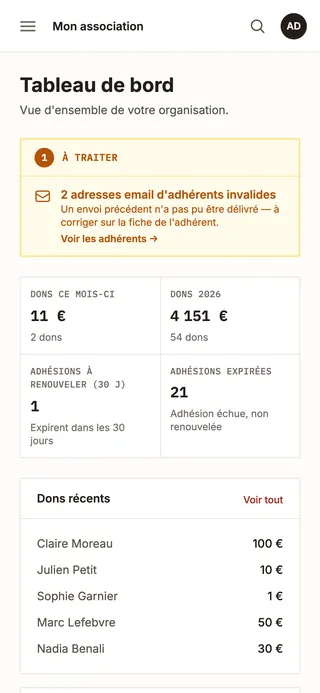
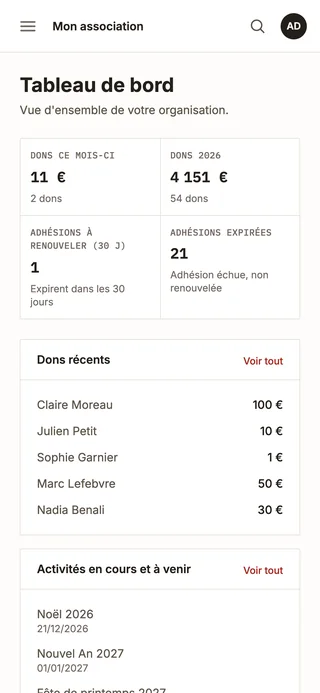
feat: illustrate "Simple, vraiment" with real app screens and align the hero phone
Each block of the section now shows a screen of the app instead of an icon:
the import column mapping, the receipt template editor with its preview, and
the team page with the volunteer phone in front. The hero phone now shows the
same dashboard as the desktop frame, and both captures drop the amber
"À traiter" banner. Captures come from the staging demo organisation with
example names. CadreNavigateur gets a compact variant for small thumbnails.

diff --git a/src/pages/LandingPage.tsx b/src/pages/LandingPage.tsx
@@ -15,9 +15,17 @@ import dashboard800 from '../assets/landing/dashboard-800.webp'
 import dashboard1280 from '../assets/landing/dashboard-1280.webp'
 import dashboard1920 from '../assets/landing/dashboard-1920.webp'
 import dashboard2880 from '../assets/landing/dashboard-2880.webp'
-import donsMobile320 from '../assets/landing/dons-mobile-320.webp'
-import donsMobile640 from '../assets/landing/dons-mobile-640.webp'
-import donsMobile960 from '../assets/landing/dons-mobile-960.webp'
+import dashboardMobile320 from '../assets/landing/dashboard-mobile-320.webp'
+import dashboardMobile640 from '../assets/landing/dashboard-mobile-640.webp'
+import dashboardMobile960 from '../assets/landing/dashboard-mobile-960.webp'
+import import640 from '../assets/landing/import-640.webp'
+import import1080 from '../assets/landing/import-1080.webp'
+import modeleRecu640 from '../assets/landing/modele-recu-640.webp'
+import modeleRecu1080 from '../assets/landing/modele-recu-1080.webp'
+import equipe640 from '../assets/landing/equipe-640.webp'
+import equipe1080 from '../assets/landing/equipe-1080.webp'
+import benevoleMobile320 from '../assets/landing/benevole-mobile-320.webp'
+import benevoleMobile640 from '../assets/landing/benevole-mobile-640.webp'
 import recus640 from '../assets/landing/recus-640.webp'
 import recus1080 from '../assets/landing/recus-1080.webp'
 import recus1600 from '../assets/landing/recus-1600.webp'
@@ -31,7 +39,11 @@ const srcSet = (variantes: Record<number, string>) =>
     .join(', ')
 
 const IMG_DASHBOARD = srcSet({ 800: dashboard800, 1280: dashboard1280, 1920: dashboard1920, 2880: dashboard2880 })
-const IMG_DONS_MOBILE = srcSet({ 320: donsMobile320, 640: donsMobile640, 960: donsMobile960 })
+const IMG_DASHBOARD_MOBILE = srcSet({ 320: dashboardMobile320, 640: dashboardMobile640, 960: dashboardMobile960 })
+const IMG_IMPORT = srcSet({ 640: import640, 1080: import1080 })
+const IMG_MODELE_RECU = srcSet({ 640: modeleRecu640, 1080: modeleRecu1080 })
+const IMG_EQUIPE = srcSet({ 640: equipe640, 1080: equipe1080 })
+const IMG_BENEVOLE_MOBILE = srcSet({ 320: benevoleMobile320, 640: benevoleMobile640 })
 const IMG_RECUS = srcSet({ 640: recus640, 1080: recus1080, 1600: recus1600 })
 const IMG_STATS = srcSet({ 640: stats640, 1080: stats1080, 1600: stats1600 })
 
@@ -82,29 +94,6 @@ const ICONES = {
       <rect x="3.75" y="5" width="16.5" height="15.25" rx="1.5" />
       <path d="M3.75 9.75h16.5M8.25 3v3.5M15.75 3v3.5" />
       <path d="M8 13.5h2.5M13.5 13.5H16M8 16.75h2.5" />
-    </>
-  ),
-  import: (
-    <>
-      <path d="M12 3.75v10.5M7.75 10l4.25 4.25L16.25 10" />
-      <path d="M4.5 15.75v3a1.5 1.5 0 0 0 1.5 1.5h12a1.5 1.5 0 0 0 1.5-1.5v-3" />
-    </>
-  ),
-  palette: (
-    <>
-      <path d="M12 3.75a8.25 8.25 0 1 0 0 16.5c1.1 0 1.75-.75 1.75-1.6 0-.45-.2-.8-.45-1.1-.25-.3-.45-.65-.45-1.1 0-.9.7-1.6 1.6-1.6h1.9a3.9 3.9 0 0 0 3.9-3.9C20.25 7 16.55 3.75 12 3.75z" />
-      <circle cx="7.75" cy="11.25" r="1" />
-      <circle cx="10.5" cy="7.5" r="1" />
-      <circle cx="15" cy="7.75" r="1" />
-    </>
-  ),
-  equipe: (
-    <>
-      <circle cx="12" cy="7.5" r="3" />
-      <path d="M6.75 19.5c.6-3 2.7-4.75 5.25-4.75s4.65 1.75 5.25 4.75" />
-      <circle cx="5" cy="10" r="2" />
-      <circle cx="19" cy="10" r="2" />
-      <path d="M2.25 17.25c.3-1.6 1.3-2.6 2.75-2.6M21.75 17.25c-.3-1.6-1.3-2.6-2.75-2.6" />
     </>
   ),
   europe: (
@@ -172,15 +161,21 @@ function BoutonEssai({ className }: { className?: string }) {
   )
 }
 
-/** Cadre de navigateur autour d'une capture de l'app. */
-function CadreNavigateur({ children, adresse }: { children: ReactNode; adresse: string }) {
+/** Cadre de navigateur autour d'une capture de l'app (compact : barre réduite pour une petite vignette). */
+function CadreNavigateur({ children, adresse, compact = false }: { children: ReactNode; adresse: string; compact?: boolean }) {
+  const point = compact ? 'h-1.5 w-1.5 rounded-full bg-paper-border' : 'h-2 w-2 rounded-full bg-paper-border sm:h-2.5 sm:w-2.5'
   return (
     <div className="overflow-hidden rounded-sm border border-paper-border bg-white shadow-2xl shadow-ink/15">
-      <div className="flex h-7 items-center gap-1.5 border-b border-paper-border bg-paper px-3 sm:h-8">
-        <span className="h-2 w-2 rounded-full bg-paper-border sm:h-2.5 sm:w-2.5" />
-        <span className="h-2 w-2 rounded-full bg-paper-border sm:h-2.5 sm:w-2.5" />
-        <span className="h-2 w-2 rounded-full bg-paper-border sm:h-2.5 sm:w-2.5" />
-        <span className="ml-3 hidden rounded-sm border border-paper-border bg-white px-2 font-registre-mono text-[10px] leading-4 text-ink-faint sm:inline">
+      <div className={cn('flex items-center border-b border-paper-border bg-paper', compact ? 'h-5 gap-1 px-2' : 'h-7 gap-1.5 px-3 sm:h-8')}>
+        <span className={point} />
+        <span className={point} />
+        <span className={point} />
+        <span
+          className={cn(
+            'hidden rounded-sm border border-paper-border bg-white px-2 font-registre-mono text-[10px] leading-4 text-ink-faint',
+            compact ? 'ml-2 lg:inline' : 'ml-3 sm:inline',
+          )}
+        >
           {adresse}
         </span>
       </div>
@@ -224,6 +219,86 @@ function Tampon({ children, className }: { children: ReactNode; className?: stri
 }
 
 // ---------------------------------------------------------------------------
+// Simple, vraiment : captures de l'app (association de démo, noms d'exemple)
+
+type IllustrationSimpleType = 'import' | 'modele' | 'equipe'
+
+const TAILLES_COLONNE = '(min-width: 768px) 30vw, calc(100vw - 64px)'
+
+function IllustrationSimple({ type }: { type: IllustrationSimpleType }) {
+  return (
+    <div className="relative flex aspect-[4/3] items-center overflow-hidden rounded-sm bg-paper-border-muted/60 p-4">
+      {type === 'import' && (
+        <div className="w-full">
+          <CadreNavigateur compact adresse="samakan.fr/admin">
+            <img
+              src={import640}
+              srcSet={IMG_IMPORT}
+              sizes={TAILLES_COLONNE}
+              width={2208}
+              height={1380}
+              loading="lazy"
+              decoding="async"
+              alt="Import d'un fichier de donateurs : chaque colonne du fichier est associée à un champ de Samakan."
+              className="block h-auto w-full"
+            />
+          </CadreNavigateur>
+        </div>
+      )}
+      {type === 'modele' && (
+        <div className="w-full">
+          <CadreNavigateur compact adresse="samakan.fr/admin">
+            <img
+              src={modeleRecu640}
+              srcSet={IMG_MODELE_RECU}
+              sizes={TAILLES_COLONNE}
+              width={2201}
+              height={1190}
+              loading="lazy"
+              decoding="async"
+              alt="Éditeur du modèle de reçu fiscal : le code du modèle à gauche, l'aperçu du reçu à droite."
+              className="block h-auto w-full"
+            />
+          </CadreNavigateur>
+        </div>
+      )}
+      {type === 'equipe' && (
+        <>
+          <div className="absolute left-4 top-6 w-[78%]">
+            <CadreNavigateur compact adresse="samakan.fr/admin">
+              <img
+                src={equipe640}
+                srcSet={IMG_EQUIPE}
+                sizes="(min-width: 768px) 24vw, 72vw"
+                width={1723}
+                height={1077}
+                loading="lazy"
+                decoding="async"
+                alt="Page Équipe et accès : les comptes du bureau avec leur rôle, et le code PIN des bénévoles."
+                className="block h-auto w-full"
+              />
+            </CadreNavigateur>
+          </div>
+          <Telephone className="absolute right-4 top-[30%] w-[30%] rotate-2 rounded-[1.1rem] p-[3px] sm:p-[4px]">
+            <img
+              src={benevoleMobile320}
+              srcSet={IMG_BENEVOLE_MOBILE}
+              sizes="(min-width: 768px) 9vw, 28vw"
+              width={1170}
+              height={2532}
+              loading="lazy"
+              decoding="async"
+              alt="Espace bénévole sur téléphone : saisie d'un don de 20 € en espèces."
+              className="block h-auto w-full"
+            />
+          </Telephone>
+        </>
+      )}
+    </div>
+  )
+}
+
+// ---------------------------------------------------------------------------
 // Contenu
 
 const MODULES_SECONDAIRES: { icone: keyof typeof ICONES; titre: string; texte: string }[] = [
@@ -253,19 +328,19 @@ const INCLUS = [
   'Import de ton fichier existant',
 ]
 
-const SIMPLE: { icone: keyof typeof ICONES; titre: string; texte: string }[] = [
+const SIMPLE: { illustration: IllustrationSimpleType; titre: string; texte: string }[] = [
   {
-    icone: 'import',
+    illustration: 'import',
     titre: 'Tu repars de ton existant',
     texte: "Importe ton tableur de donateurs, d'adhérents et de dons. Rien à ressaisir.",
   },
   {
-    icone: 'palette',
+    illustration: 'modele',
     titre: 'À tes couleurs',
     texte: "Le logo et les couleurs de ton association, ton propre modèle de reçu fiscal.",
   },
   {
-    icone: 'equipe',
+    illustration: 'equipe',
     titre: "Toute l'équipe s'y met",
     texte: 'Admins et contributeurs au bureau, bénévoles sur le terrain avec un simple code PIN.',
   },
@@ -524,13 +599,13 @@ function Landing() {
               >
                 <Telephone>
                   <img
-                    src={donsMobile640}
-                    srcSet={IMG_DONS_MOBILE}
+                    src={dashboardMobile640}
+                    srcSet={IMG_DASHBOARD_MOBILE}
                     sizes="(min-width: 1024px) 240px, 36vw"
                     width={1170}
                     height={2532}
                     decoding="async"
-                    alt="Liste des dons de Samakan sur téléphone, en cartes."
+                    alt="Le même tableau de bord de Samakan sur téléphone."
                     className="block h-auto w-full"
                   />
                 </Telephone>
@@ -712,16 +787,16 @@ function Landing() {
           <section className="px-4 pb-16 sm:px-6 sm:pb-24">
             <div className="mx-auto max-w-6xl">
               <TitreSection titre="Simple, vraiment." />
-              <div className="mt-10 grid gap-8 sm:mt-12 md:grid-cols-3 md:gap-0">
+              <div className="mt-10 grid gap-10 sm:mt-12 md:grid-cols-3 md:gap-8">
                 {SIMPLE.map((s, i) => (
                   <div
                     key={s.titre}
                     data-reveal
                     style={{ transitionDelay: `${i * 90}ms` }}
-                    className={cn(REVEAL, 'md:border-l md:border-paper-border md:px-8 md:first:border-l-0 md:first:pl-0')}
+                    className={REVEAL}
                   >
-                    <Icone nom={s.icone} className="h-7 w-7 text-ink" />
-                    <h3 className="mt-4 text-lg font-bold tracking-[-0.01em] text-ink">{s.titre}</h3>
+                    <IllustrationSimple type={s.illustration} />
+                    <h3 className="mt-6 text-lg font-bold tracking-[-0.01em] text-ink">{s.titre}</h3>
                     <p className="mt-2 text-pretty text-[15px] leading-relaxed text-ink-muted">{s.texte}</p>
                   </div>
                 ))}
